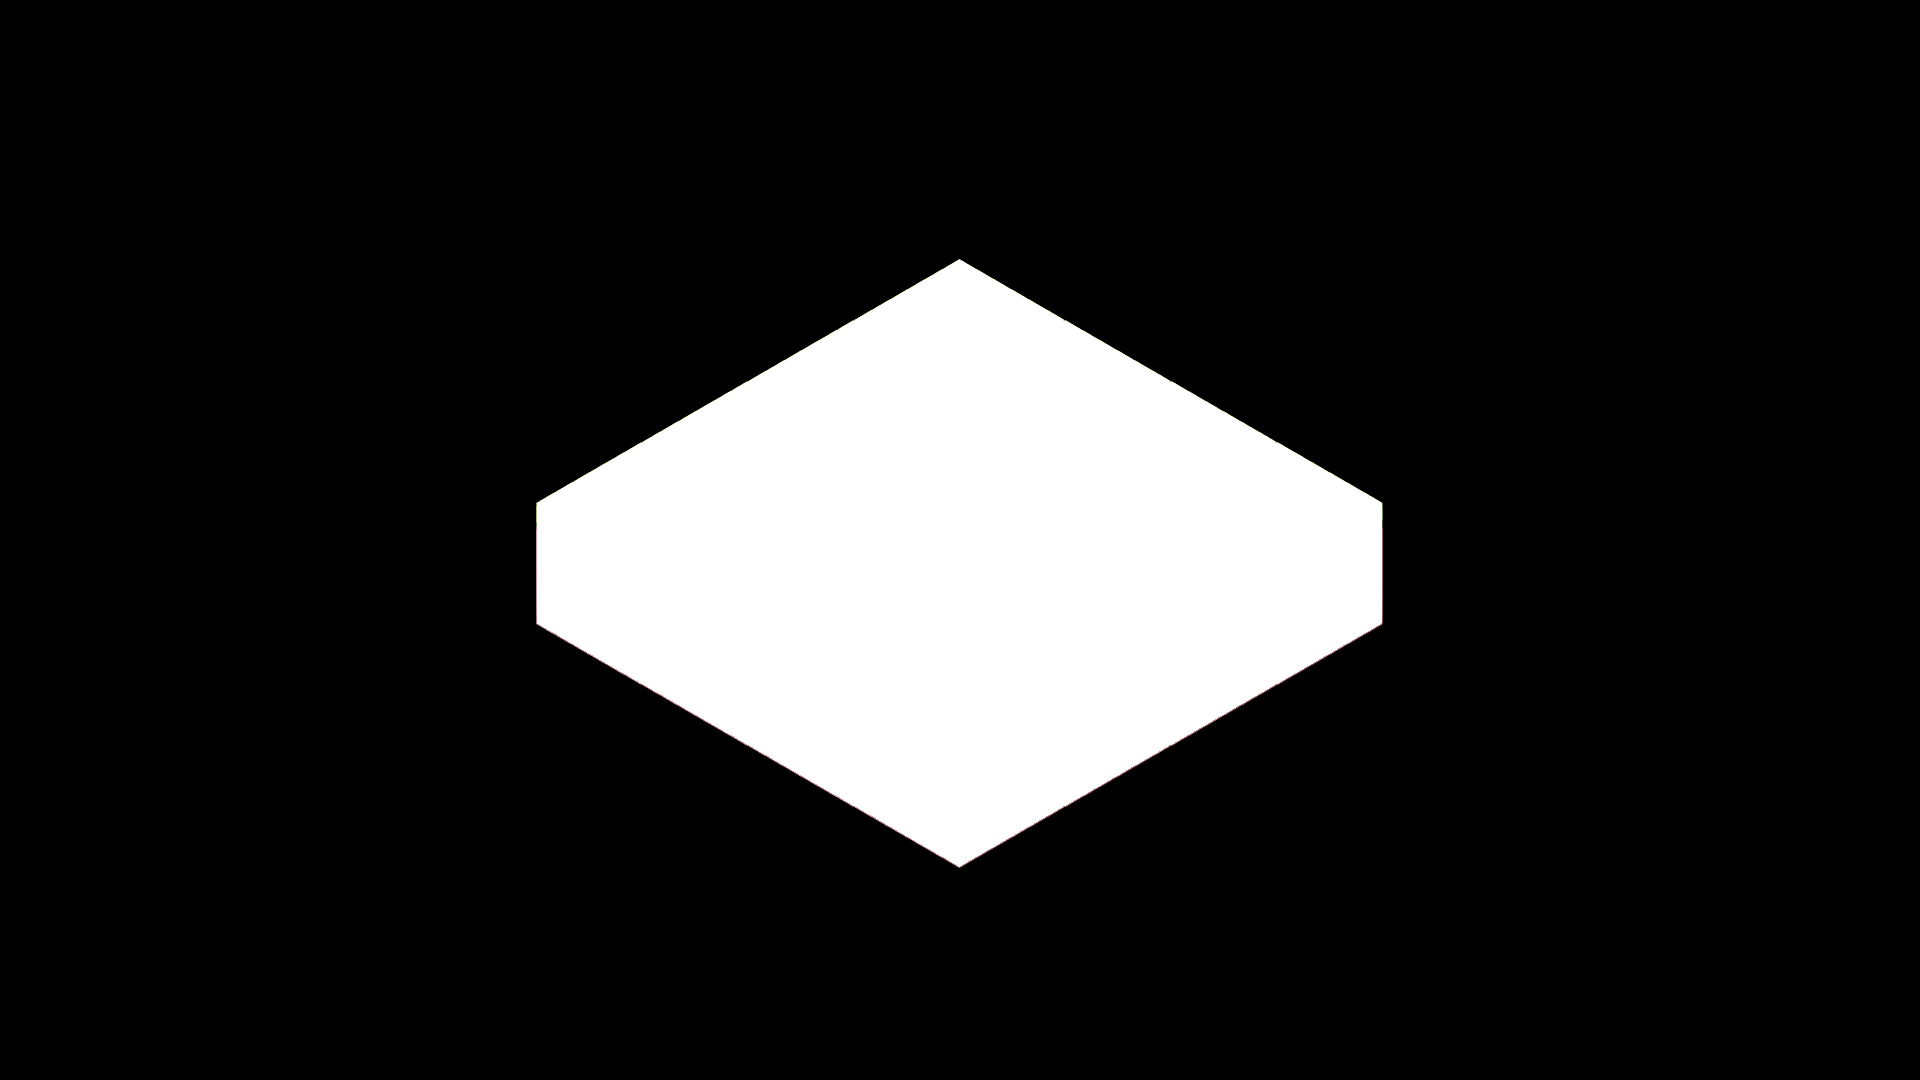
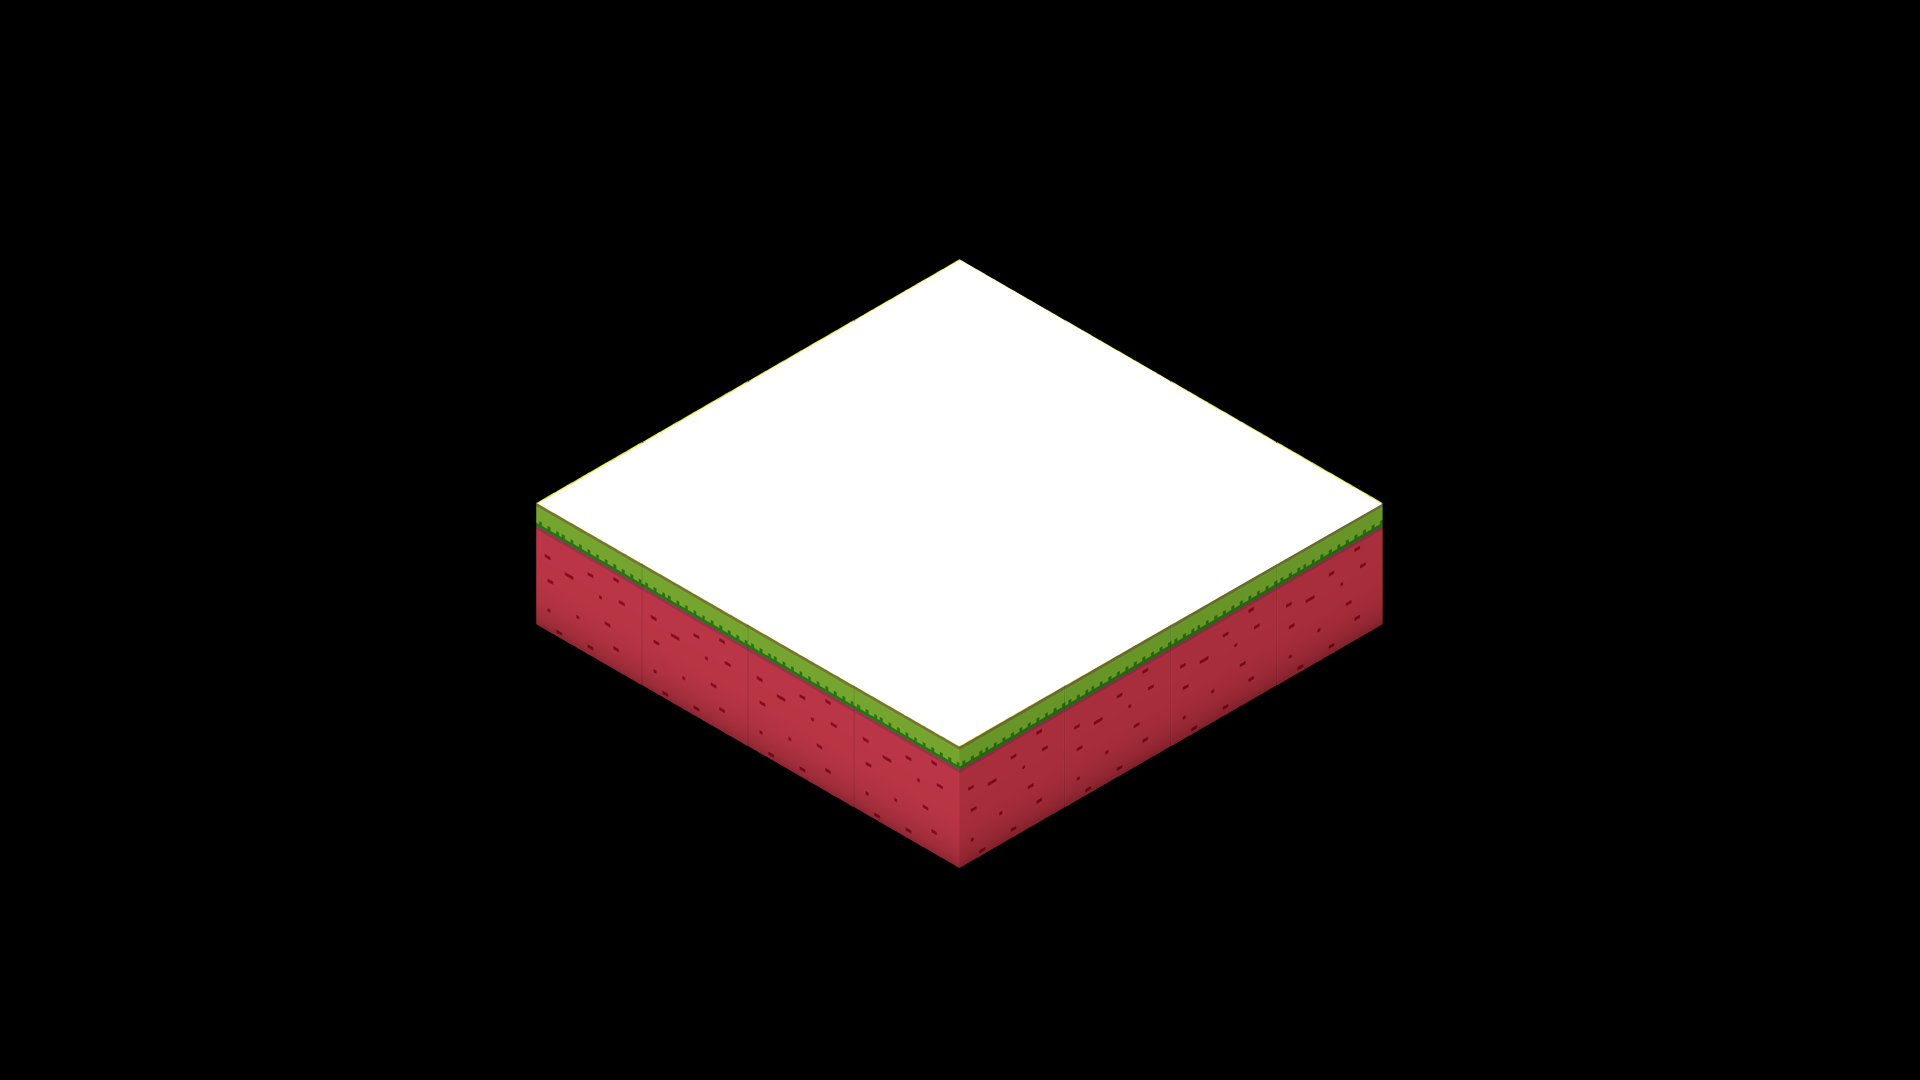
refactor: update game elements to use Cube class and adjust Bot initialization

Changed region(s): [[0.2812, 0.4583, 0.7188, 0.7944]]

diff --git a/Classiq.py b/Classiq.py
@@ -8,7 +8,7 @@ class Character(pygame.sprite.Sprite):
         self.mask = pygame.mask.from_surface(character_mask)
         self.rect = self.surf.get_rect()
    
-        self.pos = vec((WIDTH/2+100,HEIGHT/2+100))
+        self.pos = vec((WIDTH/2,HEIGHT/2))
         self.vel = vec(0,0)
         self.last_direction = ""
 
@@ -138,13 +138,12 @@ class Player(Character):
         self.controlsJoystick()
 
 class Bot(Character):
-    def __init__(self,room):
+    def __init__(self):
         super().__init__()  
  
-        self.pos.x = random.randint(room.rect.x+295,room.rect.x+1183)
-        self.pos.y = random.randint(room.rect.y+460,room.rect.y+805)
+        self.pos = vec((WIDTH/2,HEIGHT/2))
 
-    def move(self,room):
+    def move(self):
         magic_number = random.randint(1,9)
         if magic_number == 1:
             self.vel.x = 1
@@ -174,15 +173,15 @@ class Bot(Character):
             self.vel.x = 0
             self.vel.y = 0
 
-class Room(pygame.sprite.Sprite):
-    def __init__(self, room_name_):
+class Cube(pygame.sprite.Sprite):
+    def __init__(self, identifiant):
         super().__init__()  
 
-        self.name = room_name_
+        self.identifiant = identifiant
 
-        self.surf = pygame.image.load("assets/"+room_name_+".png").convert_alpha()
+        self.surf = pygame.image.load("assets/assets_1024x1024/isometric_"+identifiant+".png").convert_alpha()
 
-        tmp_room_mask = pygame.image.load("assets/"+room_name_+"_mask.png").convert_alpha()
+        tmp_room_mask = pygame.image.load("assets/isometric_mask.png").convert_alpha()
         self.mask = pygame.mask.from_surface(tmp_room_mask)
 
         self.rect = self.surf.get_rect(center = (WIDTH/2, HEIGHT/2))

diff --git a/game.py b/game.py
@@ -1,10 +1,8 @@
 from classiq import *
 
-def display_elements(room,player,list_bot):
-    #room
-    room.display()
+def display_elements(first_cube,player,list_bot):
+    first_cube.display()
 
-    #player
     player.display()
 
     for bot in list_bot:
@@ -15,12 +13,12 @@ def start():
 
     player = Player()
 
-    room = Room("garden")
-    addCollideGroup(room)
+    first_cube = Cube("0060")
+    addCollideGroup(first_cube)
 
     list_bot = []
     for i in range(4):
-        bot = Bot(room)
+        bot = Bot()
         list_bot.append(bot)
 
     frame_count = 0
@@ -36,12 +34,12 @@ def start():
 
         for bot in list_bot:
             if frame_count%10==0:
-                bot.move(room)
+                bot.move()
             bot.update()
 
         screen.fill((0,0,0))
 
-        display_elements(room,player,list_bot)
+        display_elements(first_cube,player,list_bot)
 
         pygame.display.update()
         FramePerSec.tick(FPS)
